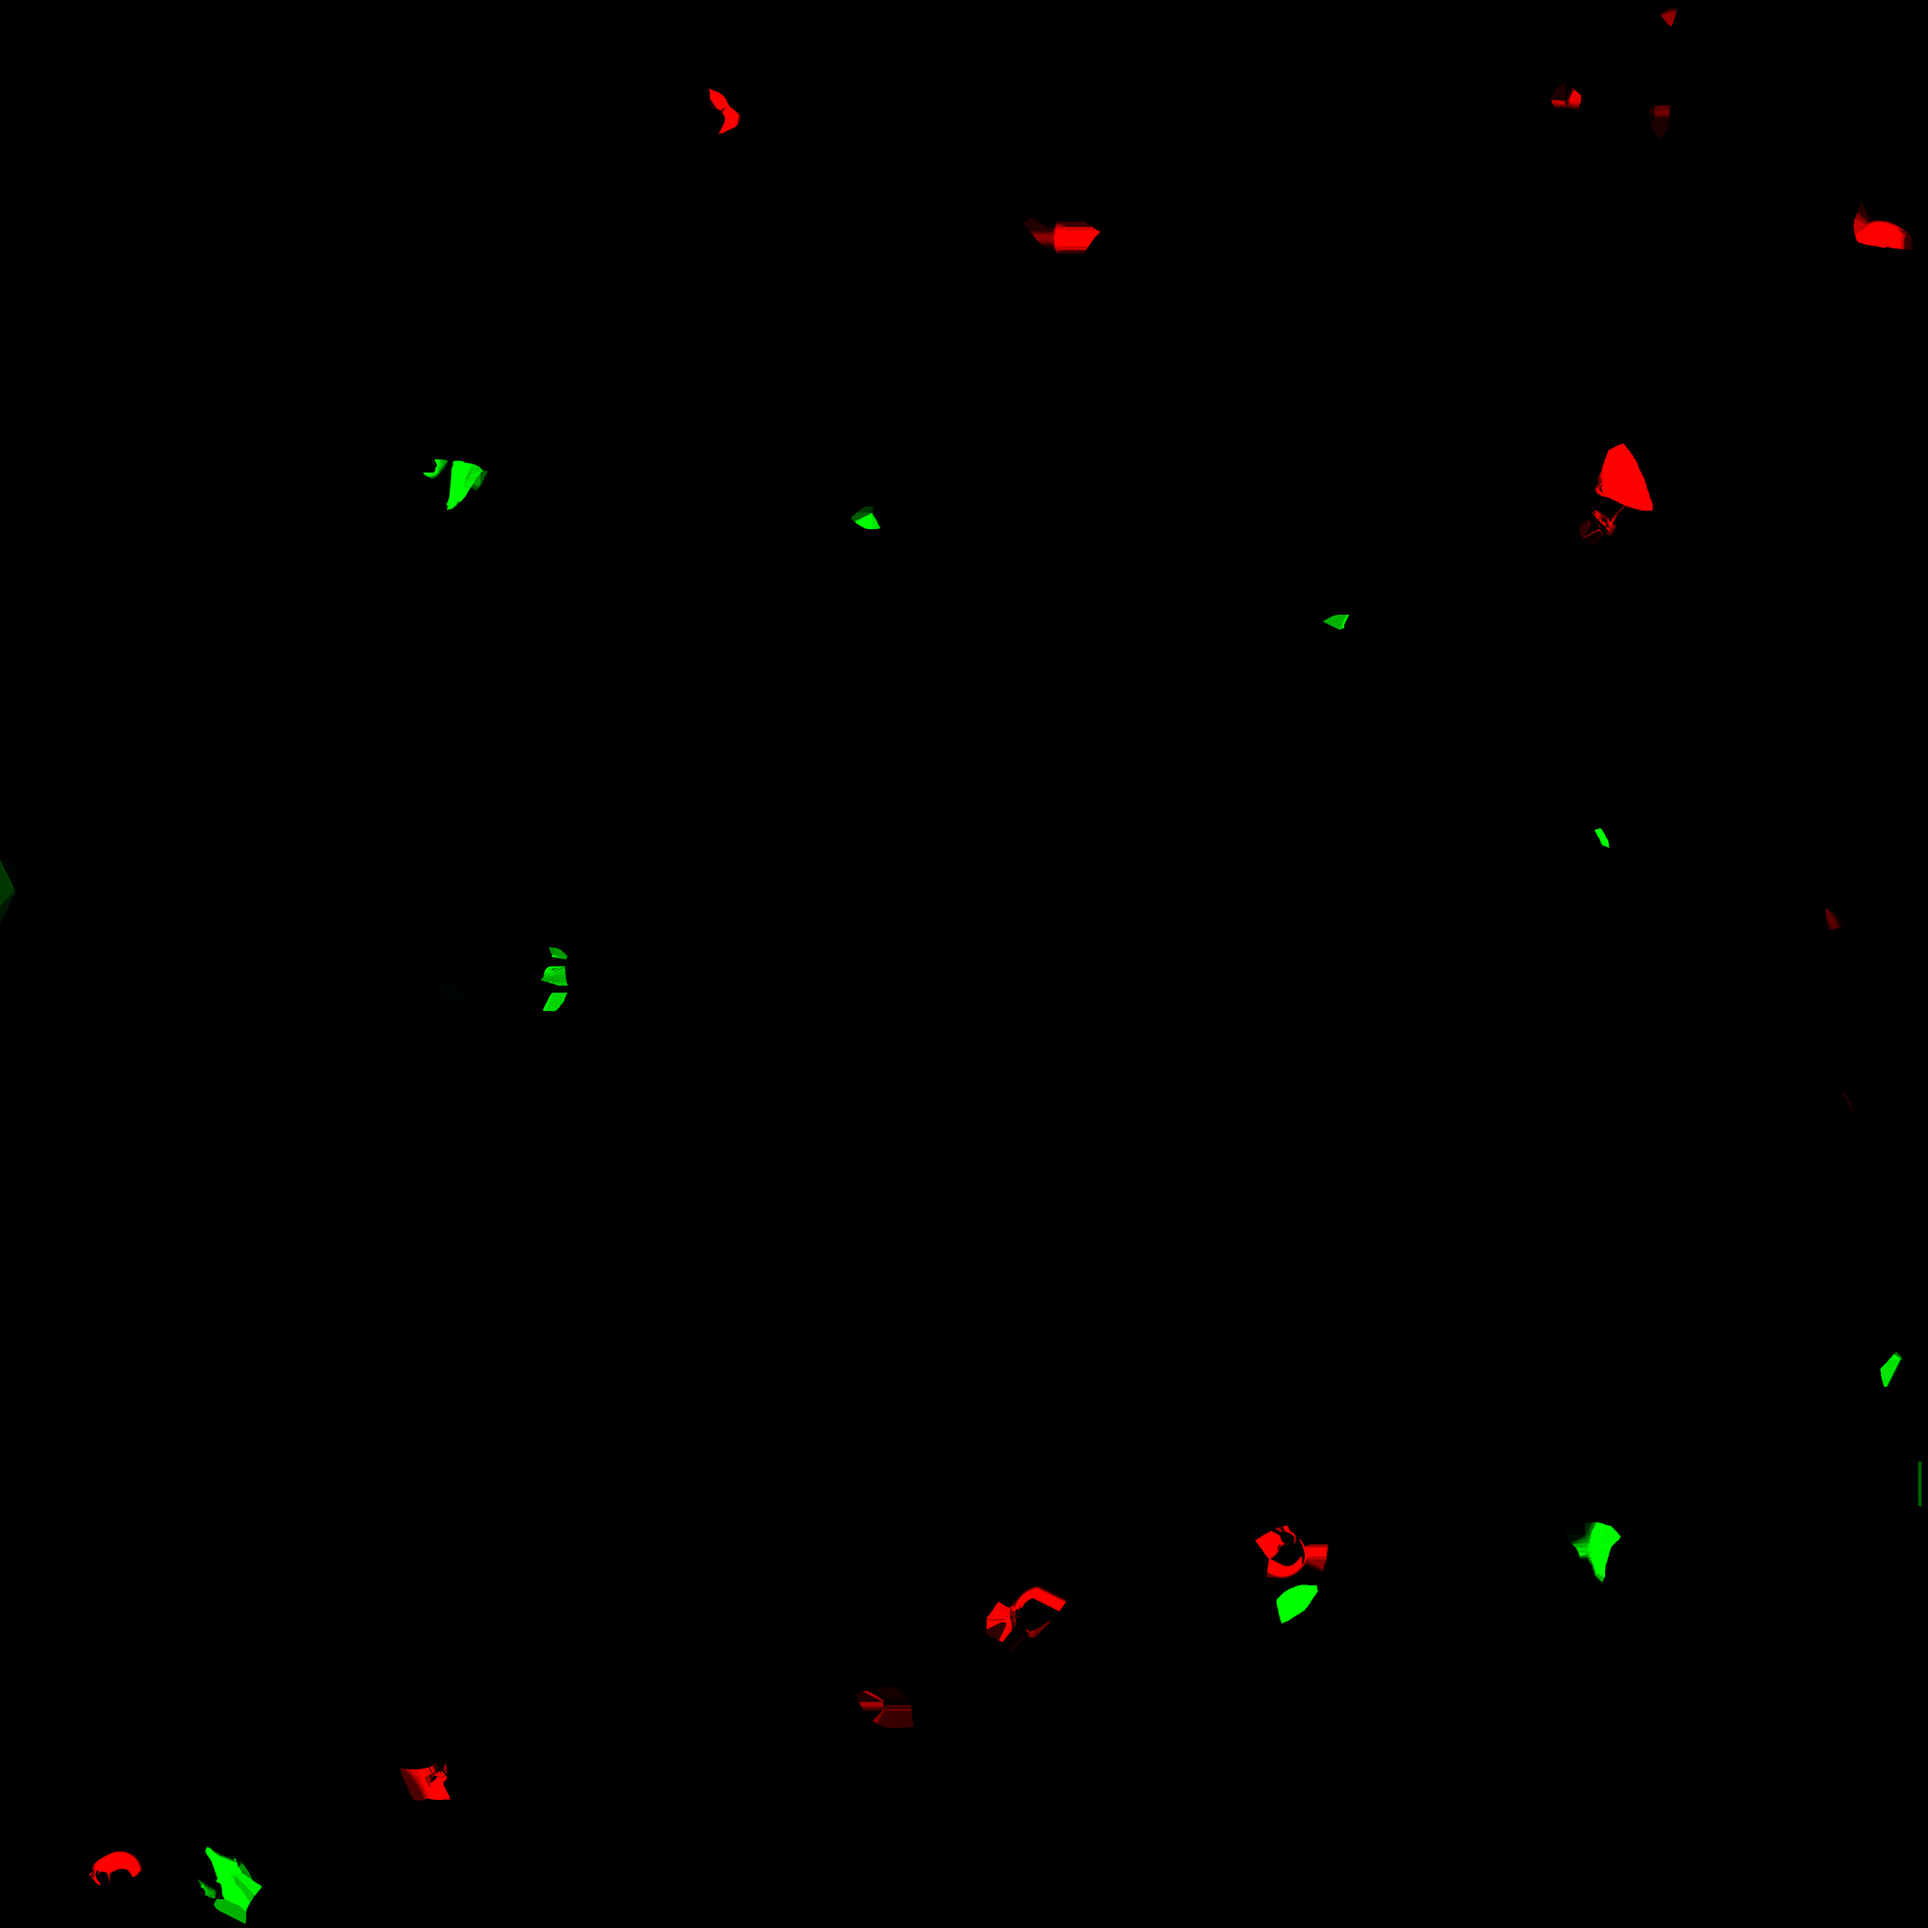
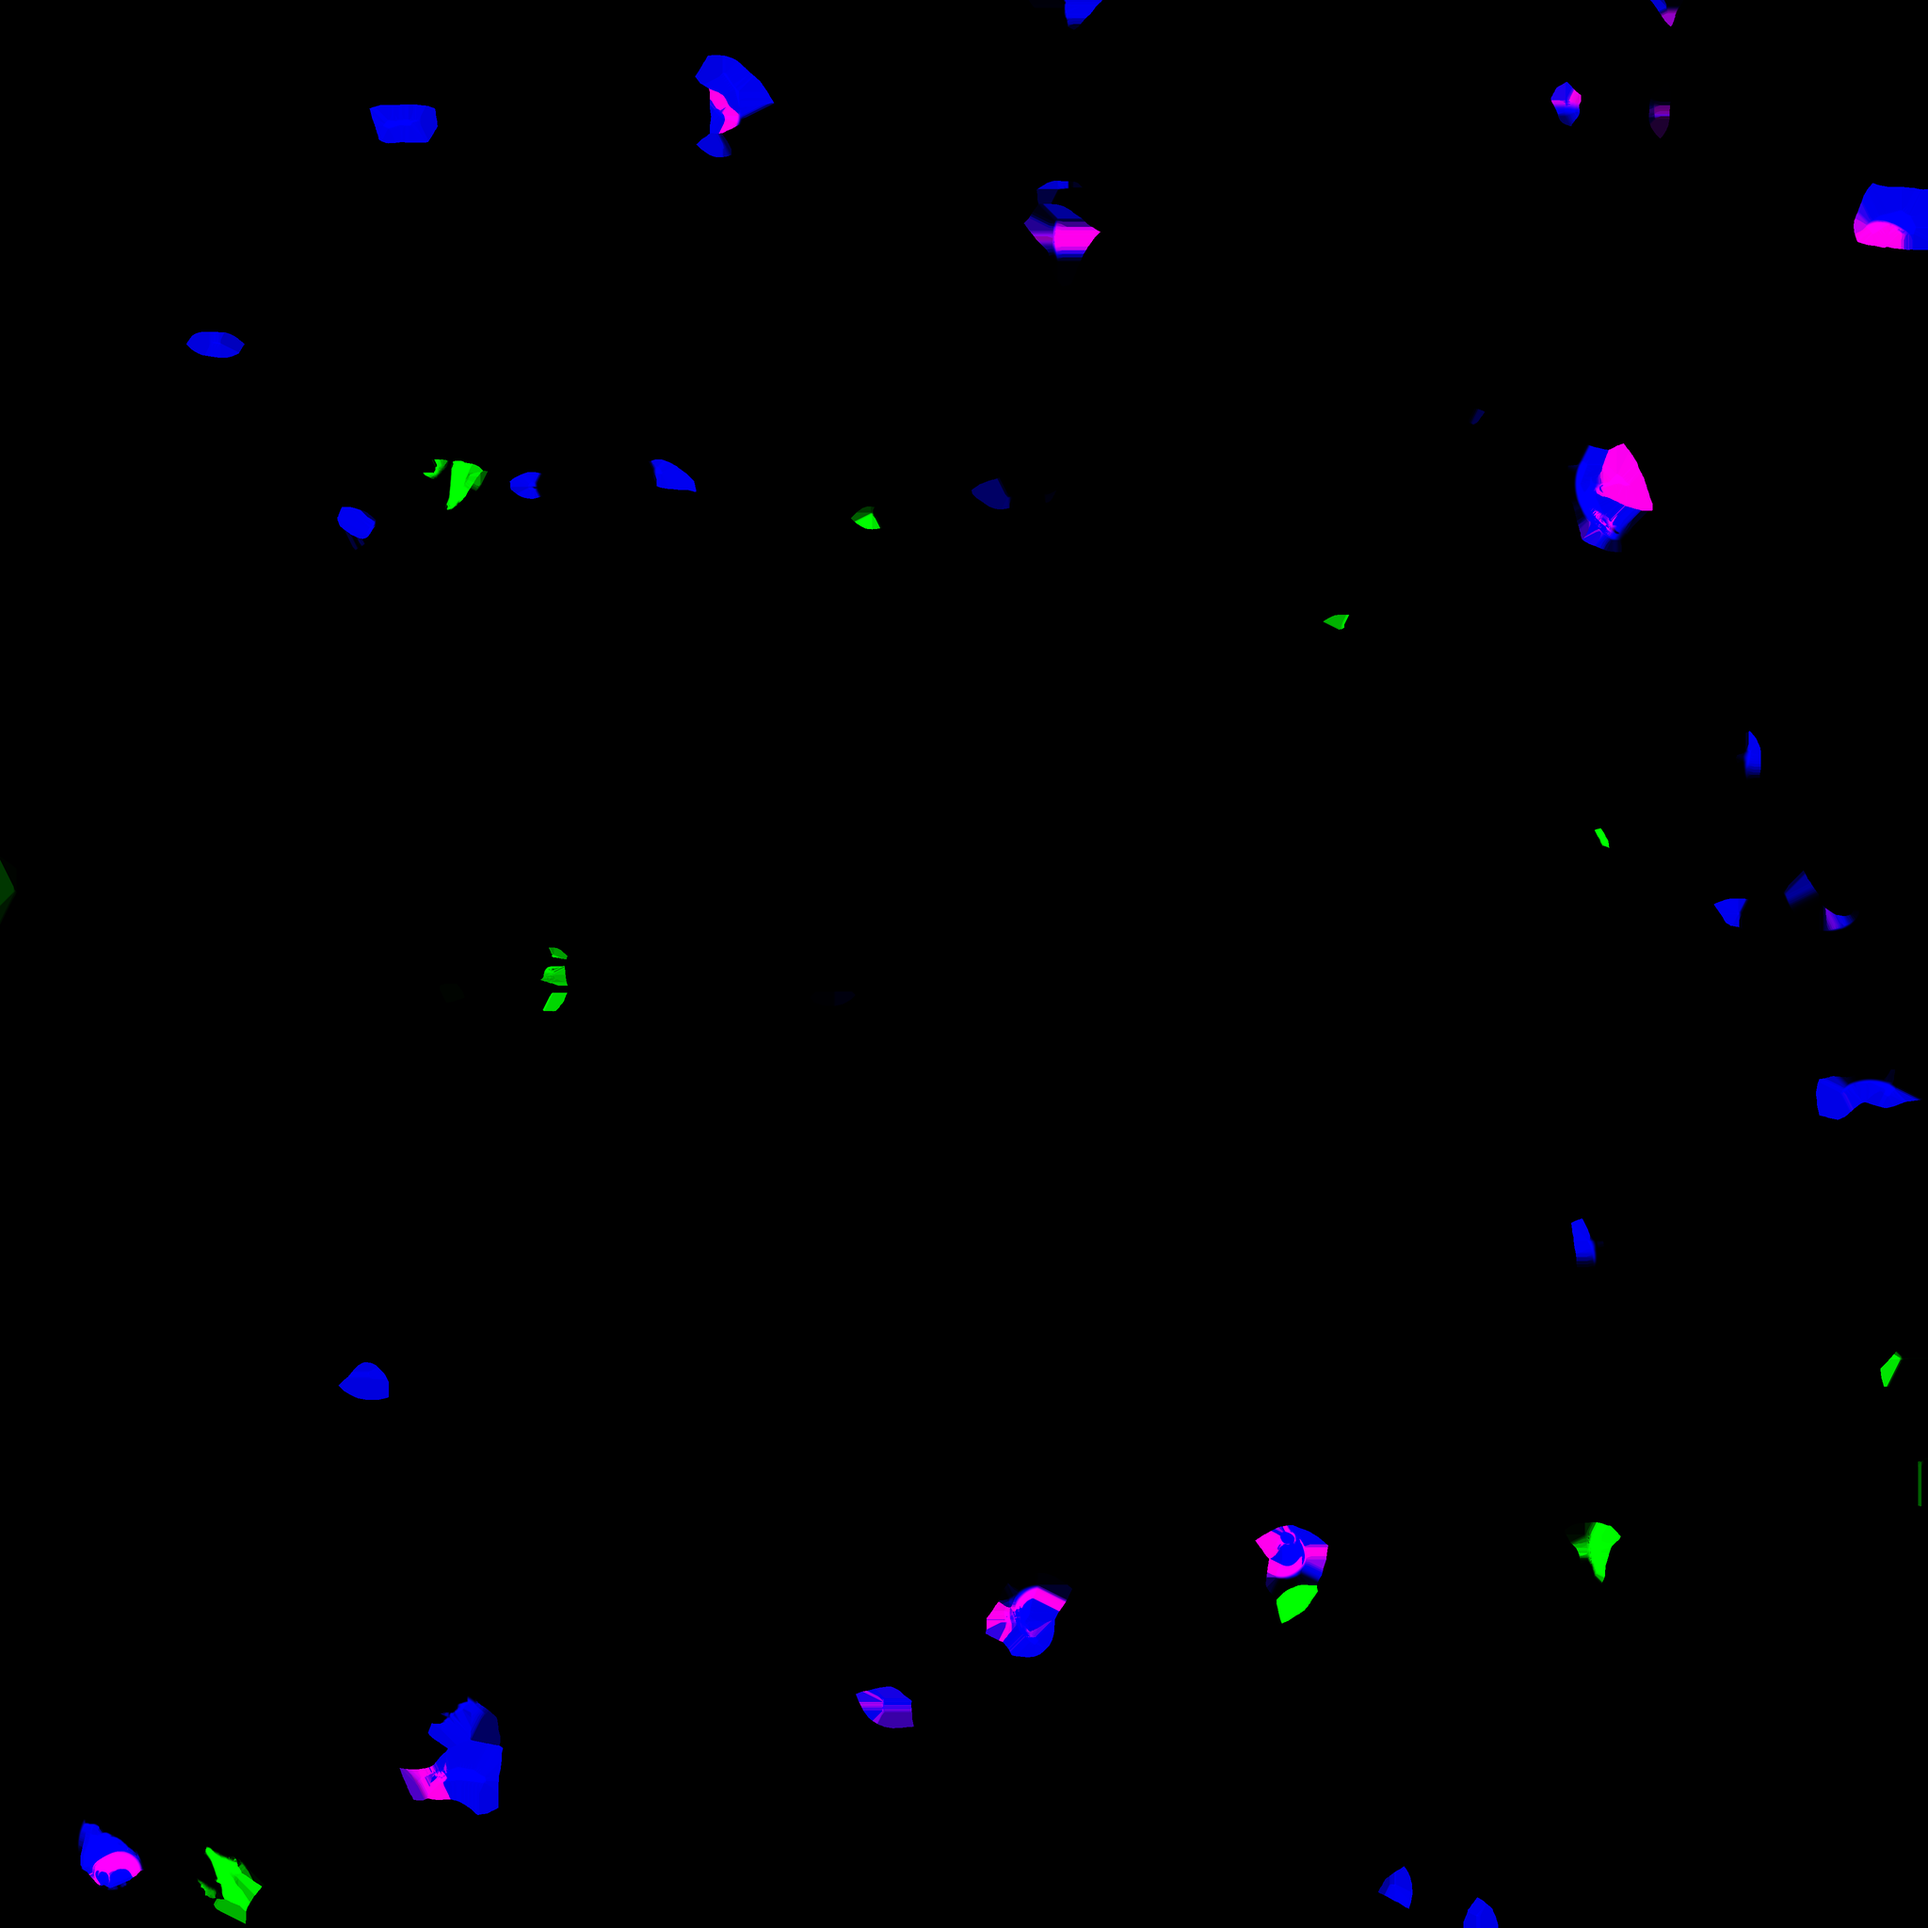
Keep the painted eyes out of the skin-tone tint; fix the male eye whites
The feature mask's blue channel marks the whole painted eye (whites, greys,
lashes, iris); the skin shader undoes the skin-tone tint there, so eye
whites stay white on every tone.

Claude-Session: https://claude.ai/code/session_01M83qtAwLzAVxuHfprtHUXT

diff --git a/src/main.js b/src/main.js
@@ -250,10 +250,15 @@ varying vec3 vSkinPos;`)
     .replace('#include <color_fragment>', `#include <color_fragment>
   {
 #ifdef USE_MAP
-    // Painted skin: the feature mask marks the irises (red) and the lips (green).
+    // Painted skin: the feature mask marks the irises (red), the lips (green)
+    // and the whole painted eye (blue).
     vec3 fm = texture2D(featureMask, vMapUv).rgb;
 #else
     vec3 fm = vec3(0.0, vLip, 0.0);
+#endif
+#ifdef USE_MAP
+    // Skin tones tint the texture through the material colour; the eyes keep the painting.
+    diffuseColor.rgb = mix(diffuseColor.rgb, diffuseColor.rgb / max(diffuse, vec3(1e-3)), fm.b);
 #endif
     float lum = dot(diffuseColor.rgb, vec3(0.299, 0.587, 0.114));
     diffuseColor.rgb = mix(diffuseColor.rgb, lipColor * (0.45 + 1.1 * lum), clamp(fm.g, 0.0, 1.0) * lipAmount);

diff --git a/tools/build_skin.py b/tools/build_skin.py
@@ -13,7 +13,8 @@ only the head, arms, hands and feet show painted skin. For each body this:
 * lifts the painted brows off the skin into their own image so the menu can
   move, resize, recolour and thicken them,
 * marks the irises and the painted lips in a feature mask (red: iris,
-  green: lips) for the menu's eye and lip colours,
+  green: lips, blue: the whole painted eye, which skin tones leave alone)
+  for the menu's eye and lip colours,
 * writes models/skin/<body>_color.jpg and _rough.jpg (glTF
   metallic-roughness: G roughness, B metal) at SIZE x SIZE, _mask.png,
   _brow.png, and models/skin/<body>.json with the reference skin colour
@@ -120,6 +121,26 @@ def iris_mask(color, covered, pos, body):
         r = np.hypot((x - ix) / i["rx"], (z - i["z"]) / i["rz"])
         out = np.maximum(out, smoothstep(1.05, 0.9, r) * front * coloured)
     return out
+
+
+def eye_area(color, covered, pos, iris, body):
+    """1 on the painted eyes (whites, lashes, irises), which skin tones leave alone."""
+    x, y, z = pos[..., 0], pos[..., 1], pos[..., 2]
+    e = body["eye"]
+    hsv = cv2.cvtColor(color, cv2.COLOR_RGB2HSV)
+    eye_like = np.maximum.reduce([smoothstep(0.28, 0.14, hsv[..., 1]) * smoothstep(0.22, 0.38, hsv[..., 2]),  # white, grey
+                                  smoothstep(0.4, 0.25, hsv[..., 2]),                                       # dark
+                                  iris])
+    if "eye_repaint" in body:                  # the repainted opening, with its lash line
+        o = body["eye_repaint"]["opening"]
+        cx, cz, ax, az = o["x"], o["z"], o["a"] + 0.4, o["b"] + 0.7
+    else:
+        cx, cz, ax, az = e["x"], e["z"], e["w"] / 2 + 0.3, e["h"] / 2 + 0.3
+    q = np.hypot((np.abs(x) - cx) / ax, (z - cz) / az)
+    # Grown a few texels so the edge where the eye blends into the skin is included.
+    eye_like = cv2.dilate(eye_like.astype(np.float32), np.ones((7, 7), np.uint8))
+    out = smoothstep(1.0, 0.9, q) * covered * (y < body["nose_tip"][0] + 8) * eye_like
+    return cv2.GaussianBlur(out.astype(np.float32), (0, 0), 1.0)
 
 
 def lip_mask(color, covered, pos, skin_rgb, body):
@@ -312,6 +333,7 @@ def build(key):
     mask = np.zeros((SIZE, SIZE, 3), np.float32)
     mask[..., 0] = iris_mask(color, covered, pos, body)
     mask[..., 1] = lip_mask(color, covered, pos, skin_rgb, body)
+    mask[..., 2] = eye_area(color, covered, pos, mask[..., 0], body)
 
     # Island borders hold texels blended with the painting's background; drop
     # one texel ring and grow the islands back out from their insides.

diff --git a/README.md b/README.md
@@ -59,7 +59,8 @@ the same triangles in another order):
   openings are repainted (white, a round iris coloured from the lower half,
   highlights, lash shadow).
 - The brows are lifted off into their own image and painted out of the skin.
-- A feature mask marks the irises (red) and the painted lips (green).
+- A feature mask marks the irises (red), the painted lips (green) and the
+  whole painted eye (blue), which skin tones leave alone.
 
 Outputs in `models/skin/`: `<body>_color.jpg`, `_rough.jpg`, `_mask.png`,
 `_brow.png` and `<body>.json` (reference skin colour, brow box). It needs
